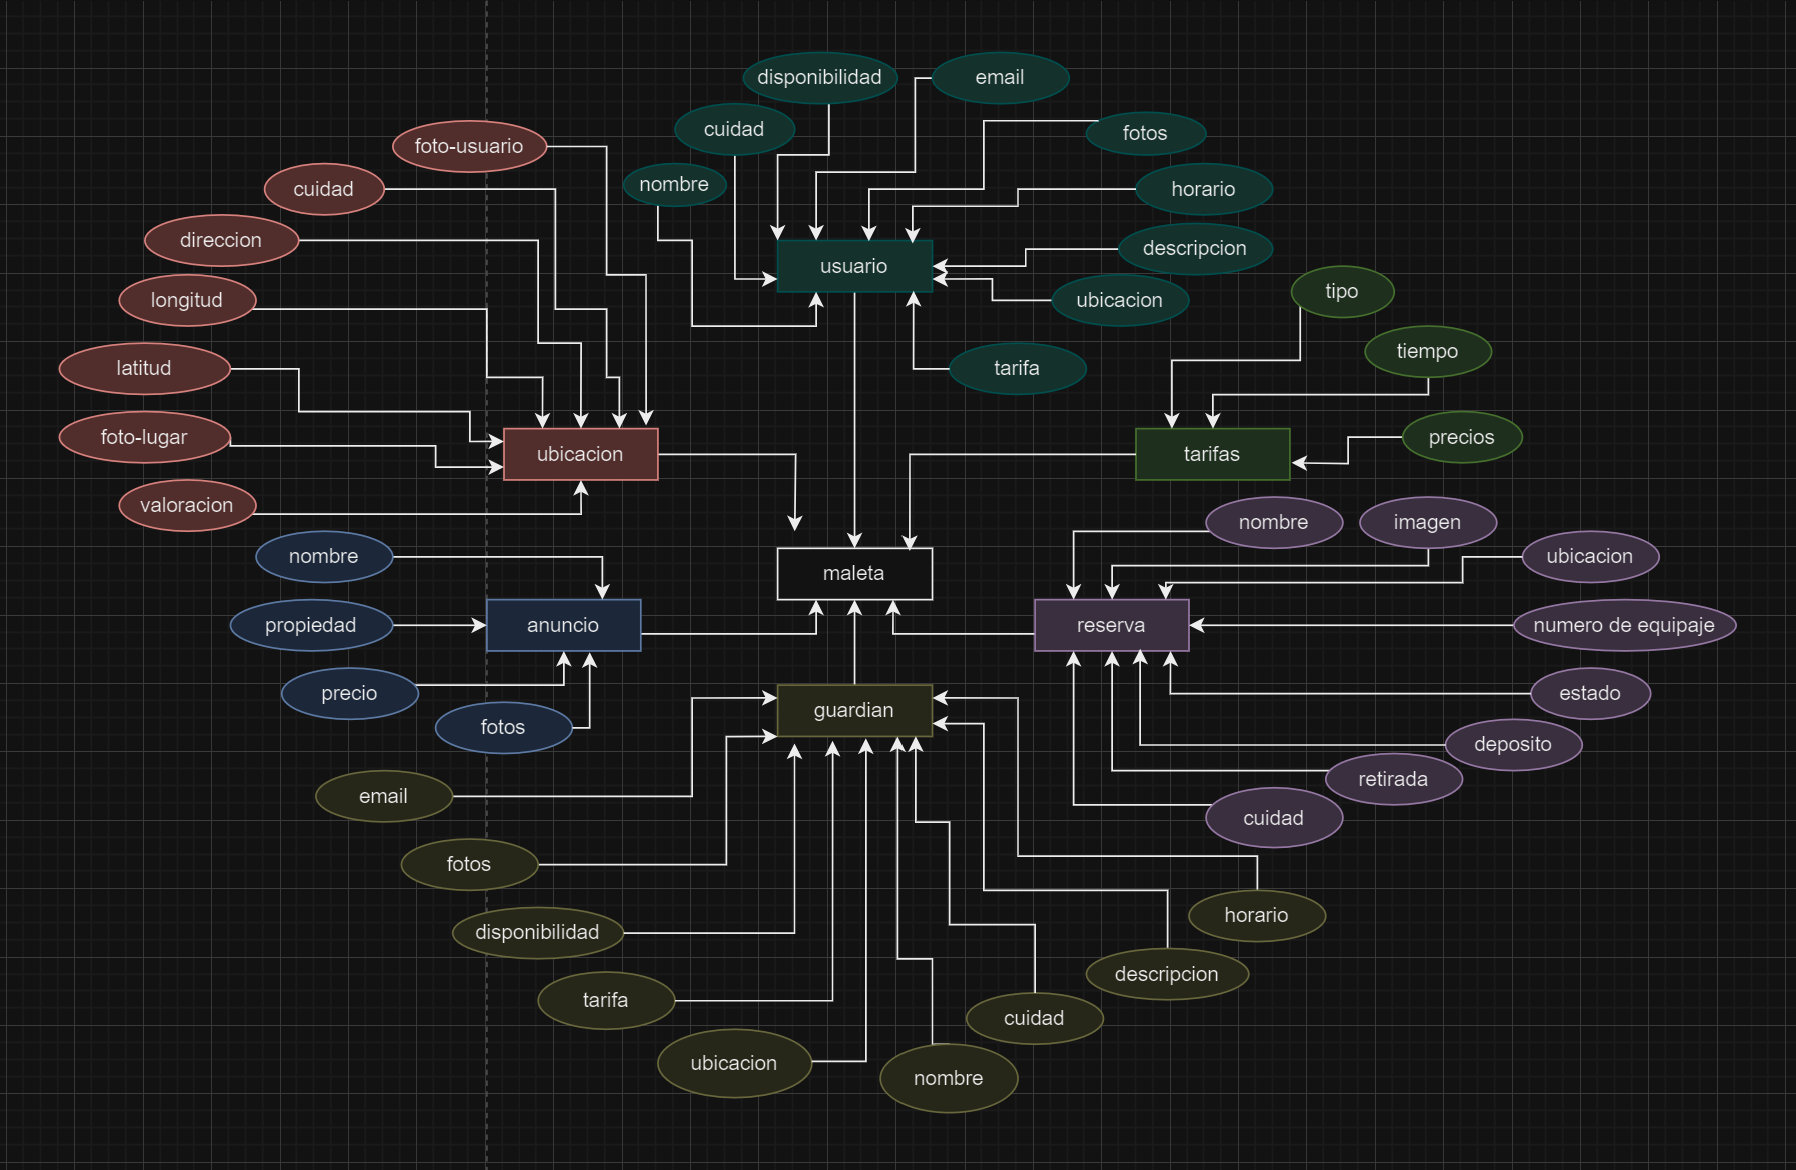
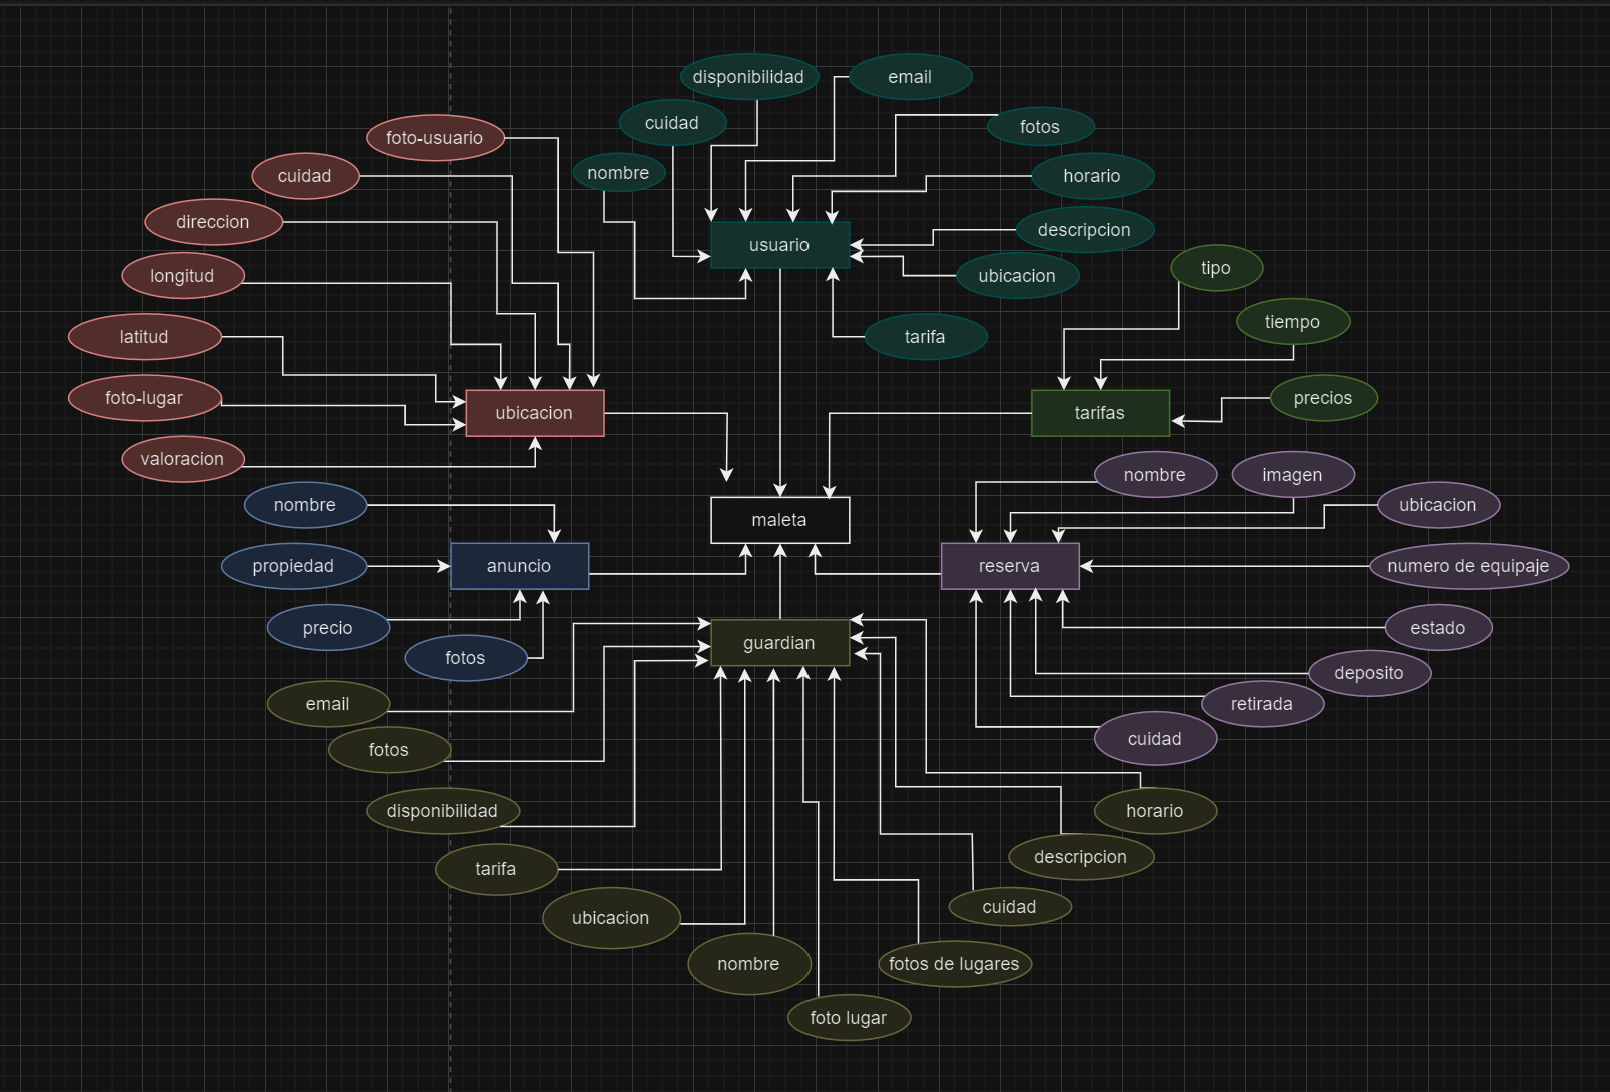
diagrama

diff --git a/src/api/models/guardian.js b/src/api/models/guardian.js
@@ -18,6 +18,10 @@ const guardianSchema = new mongoose.Schema({
         required: true
     },
     fotoLugar: {
+        type: String,
+        required: true
+    },
+    fotosLugar: {
         type: [String],
         required: true
     },
